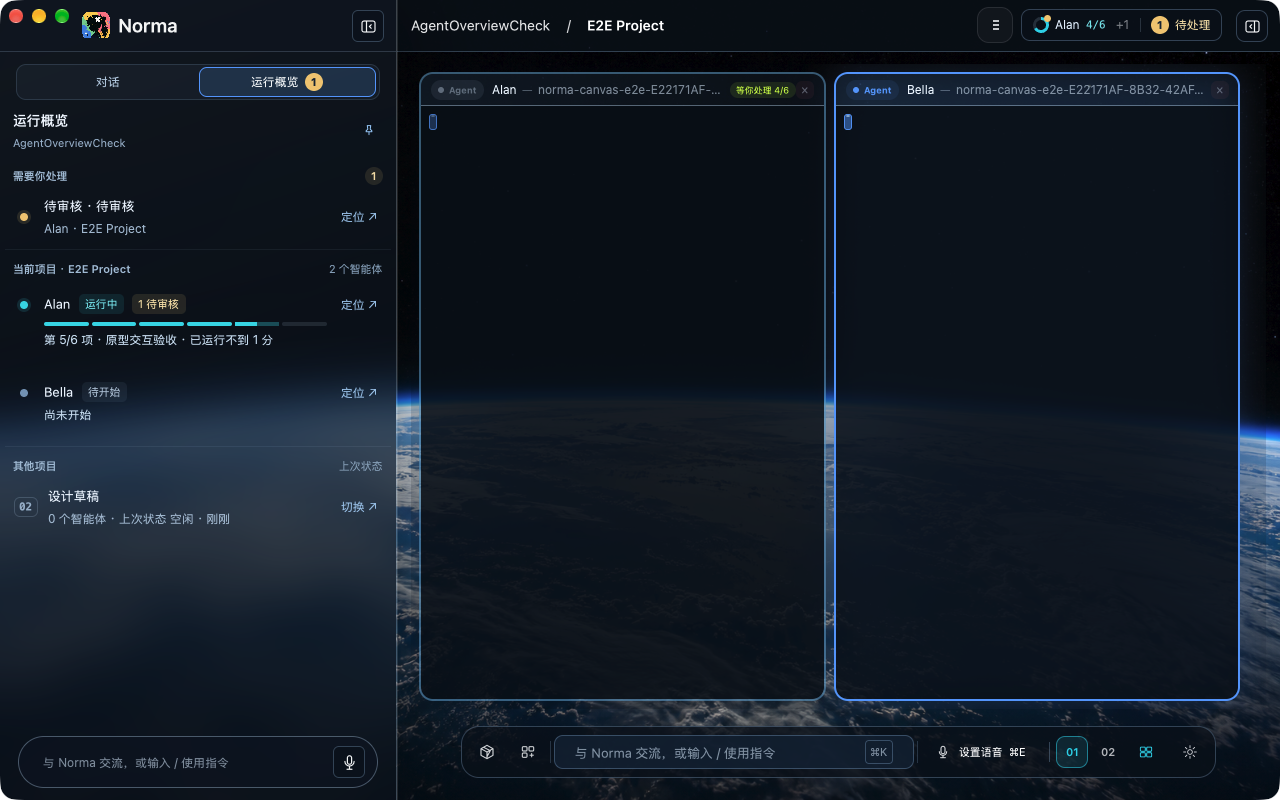
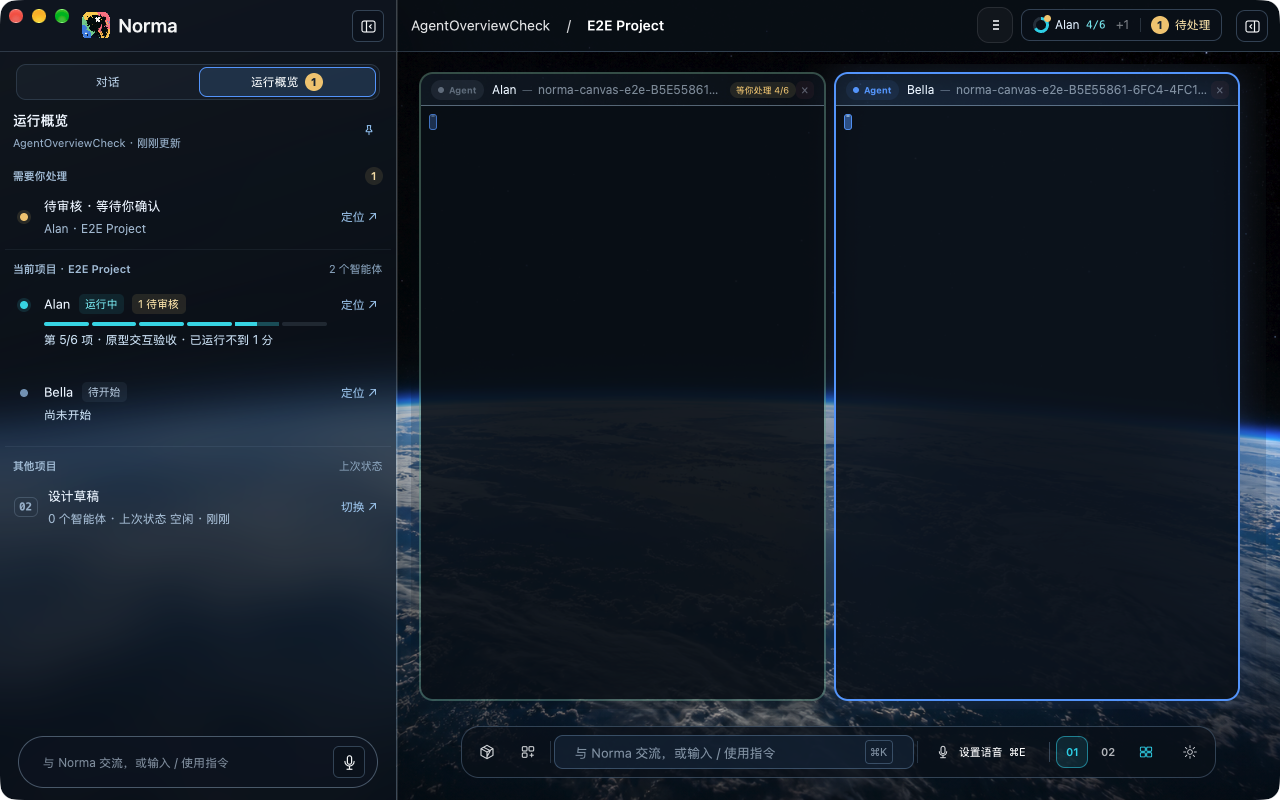
fix(desktop): 运行概览副标题带更新时间，卡片芯片与胶囊同色同词
- 概览副标题追加「· 刚刚更新」
- 「等你处理」卡片芯片固定琥珀色，空闲智能体芯片改为「待开始」
- 待审核行无任务标题时标题改为「等待你确认」，不再与芯片重复

diff --git a/test/desktop-e2e/Scenarios/workspace/WorkspaceRunOverviewAgents.swift b/test/desktop-e2e/Scenarios/workspace/WorkspaceRunOverviewAgents.swift
@@ -95,8 +95,11 @@ public enum WorkspaceRunOverviewAgents {
             try await Task.sleep(nanoseconds: 900_000_000)
             let overview = try await session.capture()
             try session.save(overview, "02-overview.png")
-            guard overview.contains("当前项目") else {
-                throw E2EError.product("⌘⇧E 没有打开运行概览：\(overview.summary)")
+            guard overview.contains("需要你处理"), overview.contains("更新") else {
+                throw E2EError.product("⌘⇧E 没有打开运行概览或副标题缺少更新时间：\(overview.summary)")
+            }
+            guard !overview.contains("待审核，待审核"), !overview.contains("待审核 · 待审核") else {
+                throw E2EError.product("待审核行标题与芯片重复：\(overview.summary)")
             }
             return overview.summary
         }

diff --git a/crates/app/tests/unit/run_overview_rows_tests.rs b/crates/app/tests/unit/run_overview_rows_tests.rs
@@ -1,7 +1,7 @@
 use super::{
     move_overview_cursor, overview_action_keeps_overview, overview_action_starts_project,
-    overview_feedback, overview_row_height, overview_tone, present_overview, OverviewAction,
-    OverviewCursor, OverviewKey, OverviewRowKind, OverviewStatusTone, ProgressMark,
+    overview_feedback, overview_row_height, overview_subtitle, overview_tone, present_overview,
+    OverviewAction, OverviewCursor, OverviewKey, OverviewRowKind, OverviewStatusTone, ProgressMark,
     OVERVIEW_TEXT_PRIMARY, OVERVIEW_TEXT_SECONDARY,
 };
 use norma::mobile::{
@@ -473,4 +473,20 @@ fn color_distance(left: (u8, u8, u8), right: (u8, u8, u8)) -> i32 {
     (left.0 as i32 - right.0 as i32).abs()
         + (left.1 as i32 - right.1 as i32).abs()
         + (left.2 as i32 - right.2 as i32).abs()
+}
+
+/// 场景：概览副标题在有投影时间时追加「· 刚刚更新」，没有时间或没有名字时只退回名字。
+#[test]
+fn overview_subtitle_appends_update_age() {
+    let now = 10_000_000u64;
+    assert_eq!(
+        overview_subtitle("Norma", Some(now as i64 - 5_000), now),
+        "Norma · 刚刚更新"
+    );
+    assert_eq!(
+        overview_subtitle("Norma", Some(now as i64 - 180_000), now),
+        "Norma · 3 分钟前更新"
+    );
+    assert_eq!(overview_subtitle("Norma", None, now), "Norma");
+    assert_eq!(overview_subtitle("", Some(now as i64), now), "");
 }

diff --git a/crates/app/src/workspace/desktop/overview_copy.rs b/crates/app/src/workspace/desktop/overview_copy.rs
@@ -104,7 +104,7 @@ fn elapsed_label(started_at_unix_ms: u64, now_ms: u64) -> String {
     }
 }
 
-fn relative_update(updated_at_unix_ms: i64, now_ms: u64) -> String {
+pub(super) fn relative_update(updated_at_unix_ms: i64, now_ms: u64) -> String {
     if updated_at_unix_ms < 0 {
         return String::new();
     }
@@ -114,5 +114,27 @@ fn relative_update(updated_at_unix_ms: i64, now_ms: u64) -> String {
         60..=3_599 => format!("{} 分钟前", age / 60),
         3_600..=86_399 => format!("{} 小时前", age / 3_600),
         _ => format!("{} 天前", age / 86_400),
+    }
+}
+
+/// 概览副标题：工作空间名，有投影时间时追加「· 刚刚更新」。
+pub(in crate::workspace::desktop) fn overview_subtitle(
+    name: &str,
+    updated_at_ms: Option<i64>,
+    now_ms: u64,
+) -> String {
+    match updated_at_ms.map(|at| relative_update(at, now_ms)) {
+        Some(when) if !when.is_empty() && !name.is_empty() => {
+            format!("{name} · {}", when_updated(&when))
+        }
+        _ => name.to_string(),
+    }
+}
+
+fn when_updated(when: &str) -> String {
+    if when == "刚刚" {
+        "刚刚更新".into()
+    } else {
+        format!("{when}更新")
     }
 }

diff --git a/crates/app/src/workspace/desktop/drawers/float/panel.rs b/crates/app/src/workspace/desktop/drawers/float/panel.rs
@@ -1,5 +1,7 @@
 //! 悬浮面板的标题栏、图钉和列表。拖动与焦点落点在 drag.rs。
 
+use super::super::super::activity_cache::overview_clock_ms;
+use super::super::super::overview_rows::overview_subtitle;
 use super::super::GLASS_TEXT;
 use super::{
     overview_panel_fill, prefers_reduced_transparency, PANEL_BORDER, PANEL_RADIUS, PIN_ICON,
@@ -99,11 +101,16 @@ impl MultisoulApp {
 
     fn overview_title_bar(&mut self, floating: bool, cx: &mut Context<Self>) -> Stateful<Div> {
         let theme = self.desktop_theme();
-        let subtitle = self
+        let name = self
             .desktop_workspace
             .active()
             .map(|workspace| workspace.name.clone())
             .unwrap_or_default();
+        let subtitle = overview_subtitle(
+            &name,
+            self.desktop_workspace.activity_updated_at_ms,
+            overview_clock_ms(),
+        );
         div()
             .id(if floating {
                 "desktop-overview-float-header"

diff --git a/crates/app/src/workspace/desktop/activity_cache.rs b/crates/app/src/workspace/desktop/activity_cache.rs
@@ -252,6 +252,7 @@ impl MultisoulApp {
                     app.desktop_workspace.activity_view = Some(projected.view);
                     app.desktop_workspace.activity_overview = Some(projected.areas);
                     app.desktop_workspace.activity_run_overview = Some(projected.overview.clone());
+                    app.desktop_workspace.activity_updated_at_ms = Some(overview_clock_ms() as i64);
                     let count = projected.overview.attention.len()
                         + projected.overview.current_agents.len()
                         + projected.overview.other_projects.len();
@@ -448,4 +449,11 @@ fn card_from_status(
     card.run_id = agent.run_id.clone();
     card.turn_id = agent.turn_id.clone();
     card
+}
+
+pub(in crate::workspace::desktop) fn overview_clock_ms() -> u64 {
+    std::time::SystemTime::now()
+        .duration_since(std::time::UNIX_EPOCH)
+        .map(|elapsed| elapsed.as_millis() as u64)
+        .unwrap_or_default()
 }

diff --git a/crates/app/src/cards/chrome.rs b/crates/app/src/cards/chrome.rs
@@ -102,11 +102,14 @@ pub fn render_card_title(
     .into_any_element()
 }
 
+/// 「等你处理」固定用琥珀色，与状态胶囊、运行概览保持一致，不随主题的暖色变化。
+const WAITING_AMBER: u32 = 0xf2c773ff;
+
 pub fn render_task_badge(badge: CardChromeTaskBadge, zoom: f32, theme: Theme) -> Div {
     let (fg, bg) = match badge.tone {
         CardChromeTaskTone::Muted => (theme.text_secondary, with_alpha(theme.panel_high, 0x68)),
         CardChromeTaskTone::Active => (theme.accent_cyan, with_alpha(theme.accent_cyan, 0x18)),
-        CardChromeTaskTone::Warning => (theme.accent_warm, with_alpha(theme.accent_warm, 0x1f)),
+        CardChromeTaskTone::Warning => (WAITING_AMBER, with_alpha(WAITING_AMBER, 0x24)),
         CardChromeTaskTone::Error => (theme.destructive, with_alpha(theme.destructive, 0x1f)),
     };
     div()

diff --git a/crates/app/src/workspace/desktop.rs b/crates/app/src/workspace/desktop.rs
@@ -158,6 +158,7 @@ pub(crate) struct DesktopWorkspaceUiState {
     pub(crate) focus_status_overview_row: bool,
     activity_overview: Option<Vec<activity_cache::OverviewArea>>,
     pub(crate) activity_run_overview: Option<norma::mobile::RunOverview>,
+    pub(crate) activity_updated_at_ms: Option<i64>,
     pub(crate) overview_cursor: Option<usize>,
     pub(crate) overview_prelight: Option<(String, u64)>,
     pub(crate) workspaces: Vec<DesktopWorkspace>,
@@ -315,6 +316,7 @@ impl DesktopWorkspaceUiState {
             focus_status_overview_row: false,
             activity_overview: None,
             activity_run_overview: None,
+            activity_updated_at_ms: None,
             overview_cursor: None,
             overview_prelight: None,
             workspaces,

diff --git a/crates/norma/src/mobile/run_overview.rs b/crates/norma/src/mobile/run_overview.rs
@@ -194,7 +194,7 @@ fn attention_rows(
                     .task_title
                     .clone()
                     .filter(|title| !title.is_empty())
-                    .unwrap_or_else(|| "待审核".into()),
+                    .unwrap_or_else(|| "等待你确认".into()),
                 run_id: agent.run_id.clone().unwrap_or_default(),
                 turn_id: agent.turn_id.clone().unwrap_or_default(),
                 request_id: None,
@@ -353,7 +353,7 @@ fn approval_title(task: Option<&str>, reason: &str) -> String {
         .rsplit_once("确认 ")
         .map(|(_, tool)| tool.trim())
         .filter(|tool| !tool.is_empty())
-        .unwrap_or("待审核")
+        .unwrap_or("等待你确认")
         .to_string()
 }
 

diff --git a/crates/app/tests/unit/cards/agent/card_tests.rs b/crates/app/tests/unit/cards/agent/card_tests.rs
@@ -427,3 +427,13 @@ fn test_agent_card_chrome_keeps_name_and_collapses_multiline_task_title() {
         "Agent title_detail 不得保留 LF，否则标题栏可能渲染成多行"
     );
 }
+
+/// 场景：空闲智能体的卡片芯片与状态胶囊同词，显示「待开始」而不是英文 Ready。
+#[test]
+fn idle_agent_badge_reads_pending_start() {
+    let badge = super::agent_task_badge(Some(AgentTaskState::Ready), None, false)
+        .expect("Ready 状态应渲染芯片");
+
+    assert_eq!(badge.label, "待开始", "空闲芯片应使用胶囊同一词汇");
+    assert_ne!(badge.label, "Ready", "不应再显示英文 Ready");
+}

diff --git a/crates/app/src/cards/agent/card.rs b/crates/app/src/cards/agent/card.rs
@@ -132,7 +132,7 @@ fn agent_task_badge(
     }
     let (label, tone) = match state {
         AgentTaskState::Ready => (
-            ui::i18n::text("common.ready").to_string(),
+            status_capsule_title(StatusCapsuleKind::PendingStart, None, None),
             CardChromeTaskTone::Muted,
         ),
         AgentTaskState::Thinking | AgentTaskState::RunningTool { .. } => (

diff --git a/crates/app/src/workspace/desktop/overview_rows.rs b/crates/app/src/workspace/desktop/overview_rows.rs
@@ -10,6 +10,7 @@ use ui::Theme;
 
 #[path = "overview_copy.rs"]
 mod overview_copy;
+pub(in crate::workspace::desktop) use overview_copy::overview_subtitle;
 use overview_copy::{
     progress_detail, project_secondary, project_status, project_tone, running_detail,
 };

diff --git a/test/desktop-e2e/checks/workspace/WorkspaceRunOverviewAgents.checks.md b/test/desktop-e2e/checks/workspace/WorkspaceRunOverviewAgents.checks.md
@@ -8,3 +8,4 @@
   - 「需要你处理」带琥珀角标；各分组之间有分隔线。
   - 智能体行：圆点带光晕、「运行中」青色芯片、「1 待审核」琥珀芯片、六段步骤条（4 实心、当前一格半实心）、「第 5/6 项」。
   - 其他项目行：序号小框 `02`、「切换 ↗」。
+- 副标题：「工作空间名 · 刚刚更新」；待审核行不再「待审核 · 待审核」，空闲智能体卡片芯片为「待开始」，卡片「等你处理」芯片为琥珀色。
